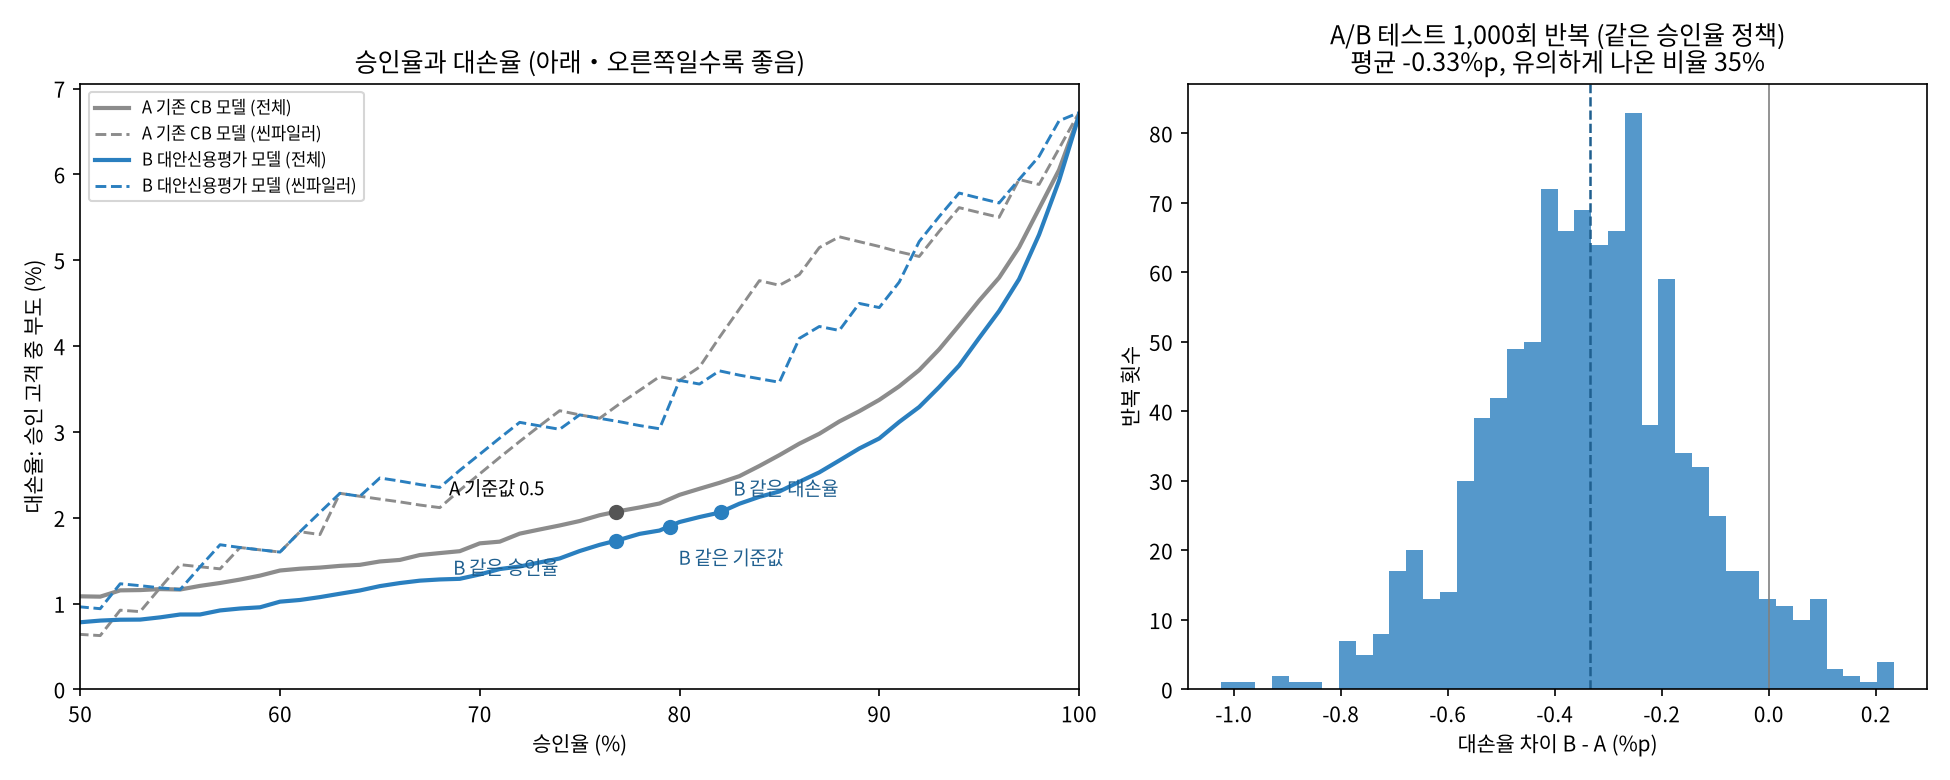
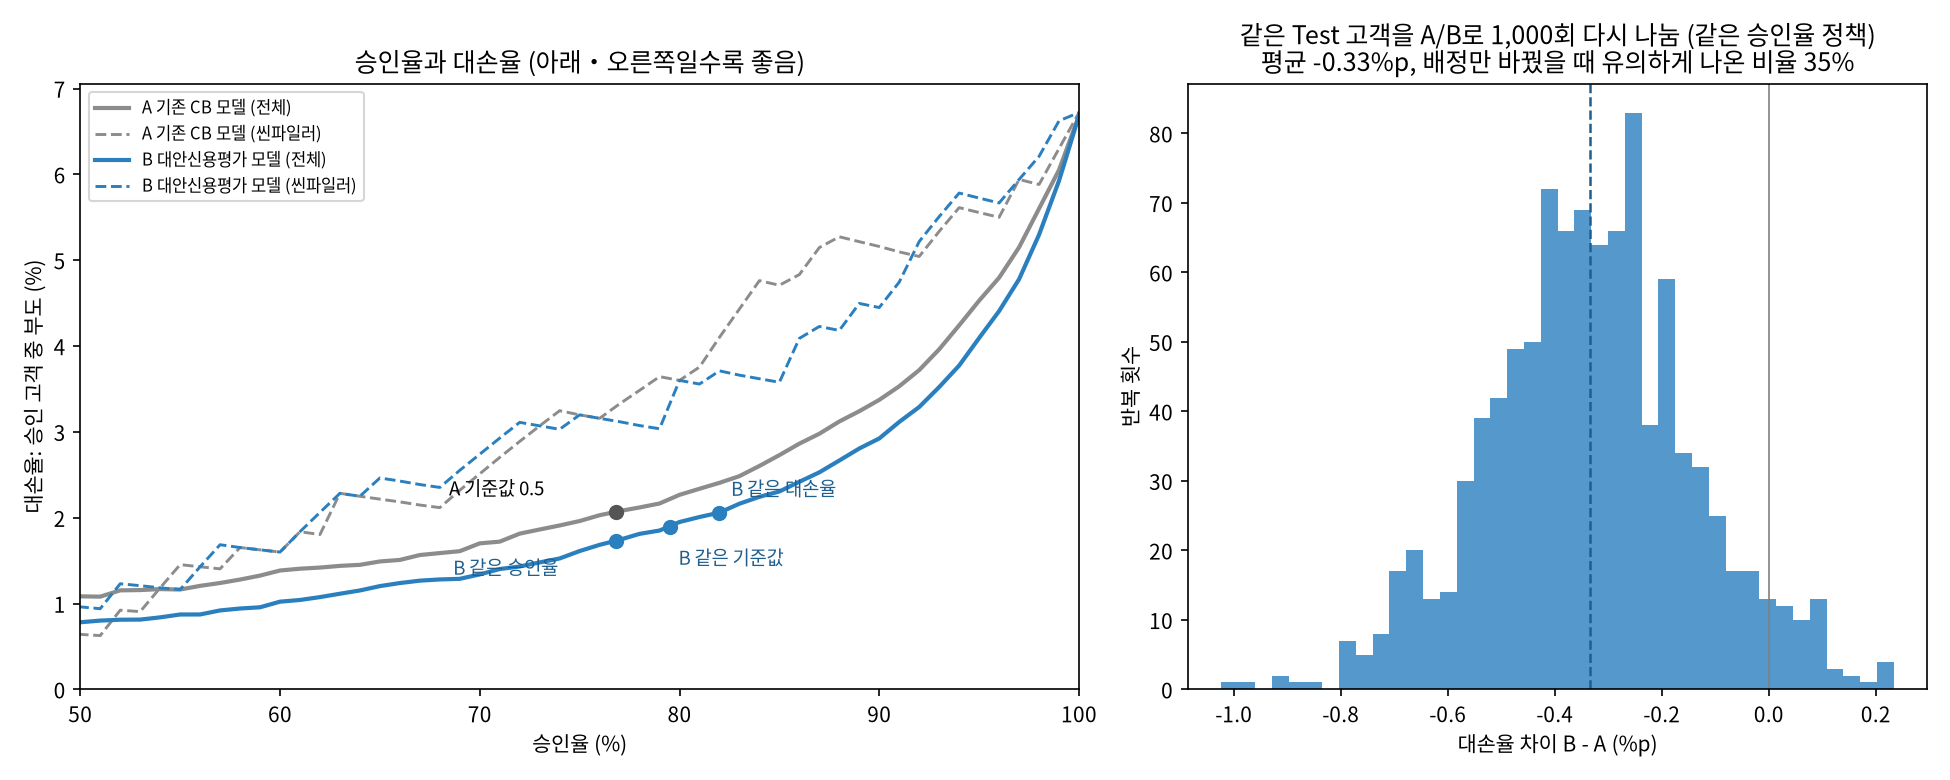
fix: A/B 테스트 리뷰 반영 - 같은 대손율 기준값을 Validation 에서 정함, 0명 가드 (#142)
- policy_comparison(calibration=): '같은 대손율' B 기준값을 Validation 에서 정해 Test 에 적용 (0.547 → 0.545, +1,184명 → +1,159명)
- two_proportion_test: 한쪽 표본 0명이면 testable False, p = 1 + 테스트
- 1,000회 반복의 유의 35% 를 '같은 Test 를 배정만 바꿔 다시 나눴을 때' 로 표현 수정 (로그, 그림, 리포트)
- 리포트 6.8: A 가 B 용 하이퍼파라미터를 써서 B 에 약간 유리하다는 점 기록, 그림 다시 생성

Changed region(s): [[0.6154, 0.0308, 0.9846, 0.0923], [0.3692, 0.6154, 0.4308, 0.6462]]

diff --git a/main_bonus_ab_test.py b/main_bonus_ab_test.py
@@ -3,7 +3,8 @@
 
 A = 기존 CB 모델 (금융 칸 10개만), B = 대안신용평가 모델 (금융 10개 + 대안 5개, 지금 서비스 모델).
   - A 는 B 와 같은 설정(LightGBM is_unbalance)으로 Train 의 금융 칸만 써서 학습한다.
-  - Test 22,500명에서 정책 3개(같은 기준값 / 같은 승인율 / 같은 대손율)를 비교하고,
+  - Test 22,500명에서 정책 3개(같은 기준값 / 같은 승인율 / 같은 대손율)를 비교하고
+    ('같은 대손율' 의 B 기준값은 Validation 에서 정해 Test 에 적용),
     고객을 무작위로 반씩 나누는 A/B 테스트를 1회 + 1,000회 반복한다 (src/statistics/ab_test.py).
   - 결과: outputs/evaluation/ab_test/ab_test.json, ab_test.png
 
@@ -72,8 +73,8 @@ def save_plot(y, p_a, p_b, thin, result, path):
     ax2.axvline(d.mean(), color='#1F5F8F', ls='--', lw=1.2)
     ax2.set_xlabel('대손율 차이 B - A (%p)')
     ax2.set_ylabel('반복 횟수')
-    ax2.set_title(f"A/B 테스트 {rep['n_rep']:,}회 반복 (같은 승인율 정책)\n"
-                  f"평균 {d.mean():+.2f}%p, 유의하게 나온 비율 {rep['share_significant_bad_rate']:.0%}")
+    ax2.set_title(f"같은 Test 고객을 A/B로 {rep['n_rep']:,}회 다시 나눔 (같은 승인율 정책)\n"
+                  f"평균 {d.mean():+.2f}%p, 배정만 바꿨을 때 유의하게 나온 비율 {rep['share_significant_bad_rate']:.0%}")
     fig.tight_layout()
     path.parent.mkdir(parents=True, exist_ok=True)
     fig.savefig(path, dpi=150)
@@ -93,8 +94,10 @@ def main():
 
     splits = Path(args.splits)
     train = pd.read_csv(splits / 'train_processed.csv')
+    val = pd.read_csv(splits / 'val_processed.csv')
     test = pd.read_csv(splits / 'test_processed.csv')
     y_tr, y = train['SeriousDlqin2yrs'].to_numpy(), test['SeriousDlqin2yrs'].to_numpy()
+    y_val = val['SeriousDlqin2yrs'].to_numpy()
     thin = test['is_thin_filer'].to_numpy().astype(bool)
     threshold = float(os.getenv('APPROVAL_THRESHOLD', '0.5'))
 
@@ -105,8 +108,11 @@ def main():
     model_a = clone(model_b).fit(X_a_tr, y_tr)
     p_a = model_a.predict_proba(get_features_by_type(test, 'financial_only'))[:, 1]
     logger.info("Test AUC: A 기존 CB %.3f, B 대안신용평가 %.3f", roc_auc_score(y, p_a), roc_auc_score(y, p_b))
+    # '같은 대손율' 의 B 기준값은 Validation 에서 정한다 (Test 라벨로 고르고 Test 로 평가하면 낙관적)
+    p_a_val = model_a.predict_proba(get_features_by_type(val, 'financial_only'))[:, 1]
+    p_b_val = model_b.predict_proba(val[cols_b])[:, 1]
 
-    policies = ab.policy_comparison(y, p_a, p_b, threshold, segment=thin)
+    policies = ab.policy_comparison(y, p_a, p_b, threshold, segment=thin, calibration=(y_val, p_a_val, p_b_val))
     for key, row in policies['policies'].items():
         a, b = policies['a'], row['b']
         logger.info("%s: 승인율 A %.1f%% → B %.1f%%, 대손율 A %.2f%% → B %.2f%% (상대 %+.1f%%)", POLICY_KR[key],
@@ -115,7 +121,7 @@ def main():
     thr_b = policies['policies']['same_approval_rate']['threshold_b']
     single = ab.ab_split(y, p_a, p_b, threshold, thr_b, seed=args.seed)
     repeated = ab.repeated_ab(y, p_a, p_b, threshold, thr_b, n_rep=args.repeats, seed=args.seed)
-    logger.info("A/B 1회 (같은 승인율): 대손율 차이 %+.2f%%p, p = %.3g / %d회 반복 중 유의 %.0f%%",
+    logger.info("A/B 1회 (같은 승인율): 대손율 차이 %+.2f%%p, p = %.3g / 같은 Test 를 %d회 다시 나눴을 때 유의 %.0f%%",
                 single['bad_rate_test']['diff'] * 100, single['bad_rate_test']['p_value'], args.repeats,
                 repeated['share_significant_bad_rate'] * 100)
     same = policies['policies']['same_approval_rate']
@@ -124,7 +130,8 @@ def main():
                 needed['applicants_total'])
 
     result = {
-        'models': {'a': '기존 CB 모델: 금융 칸 10개, LightGBM is_unbalance (Train 으로 학습)',
+        'models': {'a': '기존 CB 모델: 금융 칸 10개, LightGBM is_unbalance (Train 으로 학습, '
+                        'B 용으로 튜닝한 하이퍼파라미터를 그대로 사용 → 비교가 B 에 약간 유리)',
                    'b': f'대안신용평가 모델: {Path(args.model).name}'},
         'test_auc': {'a': float(roc_auc_score(y, p_a)), 'b': float(roc_auc_score(y, p_b))},
         'bad_rate_definition': '승인 고객 중 부도(SeriousDlqin2yrs = 1) 비율 (금액 정보가 없어 건수 기준)',

diff --git a/src/statistics/ab_test.py b/src/statistics/ab_test.py
@@ -66,7 +66,16 @@ def threshold_for_bad_rate(y, p, target):
 
 
 def two_proportion_test(x1, n1, x2, n2):
-    """두 비율 차이(2 - 1)의 z 검정과 95% 구간."""
+    """
+    두 비율 차이(2 - 1)의 z 검정과 95% 구간.
+    한쪽 표본이 0명이면(예: 한쪽 승인 고객 0명 → 대손율 분모 0) 검정할 수 없어 z = 0, p = 1, testable = False.
+    """
+    if n1 <= 0 or n2 <= 0:
+        p1 = x1 / n1 if n1 > 0 else 0.0
+        p2 = x2 / n2 if n2 > 0 else 0.0
+        d = float(p2 - p1)
+        return {'rate_a': float(p1), 'rate_b': float(p2), 'diff': d, 'ci_low': d, 'ci_high': d,
+                'z': 0.0, 'p_value': 1.0, 'testable': False}
     p1, p2 = x1 / n1, x2 / n2
     pooled = (x1 + x2) / (n1 + n2)
     se0 = np.sqrt(pooled * (1 - pooled) * (1 / n1 + 1 / n2))
@@ -74,18 +83,31 @@ def two_proportion_test(x1, n1, x2, n2):
     se = np.sqrt(p1 * (1 - p1) / n1 + p2 * (1 - p2) / n2)
     return {'rate_a': float(p1), 'rate_b': float(p2), 'diff': float(p2 - p1),
             'ci_low': float(p2 - p1 - 1.96 * se), 'ci_high': float(p2 - p1 + 1.96 * se),
-            'z': float(z), 'p_value': float(2 * stats.norm.sf(abs(z)))}
+            'z': float(z), 'p_value': float(2 * stats.norm.sf(abs(z))), 'testable': True}
 
 
-def policy_comparison(y, p_a, p_b, threshold=0.5, segment=None):
-    """세 정책(같은 기준값 / 같은 승인율 / 같은 대손율)에서 A, B 의 결과와 세그먼트별 결과."""
+def policy_comparison(y, p_a, p_b, threshold=0.5, segment=None, calibration=None):
+    """
+    세 정책(같은 기준값 / 같은 승인율 / 같은 대손율)에서 A, B 의 결과와 세그먼트별 결과.
+
+    calibration = (y_val, p_a_val, p_b_val) 를 주면 '같은 대손율' 의 B 기준값을 Validation 에서 정하고
+    (A 의 Validation 대손율에 맞춘 B 기준값) 그 값을 평가 데이터(Test)에 그대로 적용한다.
+    평가 데이터의 부도 라벨로 기준값을 고르면 같은 라벨로 평가하게 되어 결과가 낙관적이 되기 때문이다.
+    '같은 승인율' 은 점수만 써서 정하므로(라벨 미사용) 평가 데이터에서 맞춘다.
+    """
     a = approval_metrics(y, p_a, threshold)
+    if calibration is not None:
+        y_v, p_a_v, p_b_v = calibration
+        target = approval_metrics(y_v, p_a_v, threshold)['bad_rate']
+        bad_thr, bad_src = threshold_for_bad_rate(y_v, p_b_v, target), 'validation'
+    else:
+        bad_thr, bad_src = threshold_for_bad_rate(y, p_b, a['bad_rate']), 'evaluation'
     thr = {
         'same_threshold': threshold,
         'same_approval_rate': threshold_for_approval_rate(p_b, a['approval_rate']),
-        'same_bad_rate': threshold_for_bad_rate(y, p_b, a['bad_rate']),
+        'same_bad_rate': bad_thr,
     }
-    out = {'threshold_a': threshold, 'a': a, 'policies': {}}
+    out = {'threshold_a': threshold, 'a': a, 'same_bad_rate_threshold_source': bad_src, 'policies': {}}
     for name, t in thr.items():
         b = approval_metrics(y, p_b, t)
         row = {'threshold_b': float(t), 'b': b,
@@ -117,7 +139,11 @@ def ab_split(y, p_a, p_b, thr_a, thr_b, seed=42, share_b=0.5):
 
 
 def repeated_ab(y, p_a, p_b, thr_a, thr_b, n_rep=1000, seed=42):
-    """A/B 나누기를 n_rep 번 반복: 대손율·승인율 차이의 분포와 '유의하게 나온 비율'(검정력)."""
+    """
+    A/B 나누기를 n_rep 번 반복: 대손율·승인율 차이의 분포와 '유의하게 나온 비율'.
+    같은 고객 집단을 배정만 바꿔 다시 나누는 것이므로, 유의 비율은 새 고객을 뽑는 검정력이 아니라
+    '이 표본 안에서 배정만 달라졌을 때 유의하게 나오는 비율' 이다.
+    """
     rng = np.random.default_rng(seed)
     seeds = rng.integers(0, 2**31 - 1, size=n_rep)
     d_bad, d_app, sig_bad = [], [], 0

diff --git a/tests/test_ab_test.py b/tests/test_ab_test.py
@@ -59,6 +59,26 @@ def test_two_proportion_test_known_values():
     assert same['p_value'] == pytest.approx(1.0)
 
 
+def test_two_proportion_test_zero_sample_does_not_crash():
+    """한쪽 승인 고객이 0명이면 ZeroDivisionError 없이 '검정 불가' 로 돌려준다."""
+    t = ab.two_proportion_test(0, 0, 30, 1000)
+    assert t['testable'] is False and t['p_value'] == 1.0 and t['rate_a'] == 0.0
+    t = ab.two_proportion_test(5, 100, 0, 0)
+    assert t['testable'] is False and t['z'] == 0.0
+    assert ab.two_proportion_test(50, 1000, 30, 1000)['testable'] is True
+
+
+def test_same_bad_rate_threshold_from_validation():
+    """calibration 을 주면 '같은 대손율' 기준값은 Validation 에서 정하고, 평가 데이터 라벨로 다시 맞추지 않는다."""
+    y, p_a, p_b = _data(seed=0)
+    y_v, p_a_v, p_b_v = _data(seed=1)
+    r = ab.policy_comparison(y, p_a, p_b, 0.5, calibration=(y_v, p_a_v, p_b_v))
+    assert r['same_bad_rate_threshold_source'] == 'validation'
+    target_v = ab.approval_metrics(y_v, p_a_v, 0.5)['bad_rate']
+    assert r['policies']['same_bad_rate']['threshold_b'] == pytest.approx(ab.threshold_for_bad_rate(y_v, p_b_v, target_v))
+    assert ab.policy_comparison(y, p_a, p_b, 0.5)['same_bad_rate_threshold_source'] == 'evaluation'
+
+
 def test_repeated_ab_and_sample_size():
     y, p_a, p_b = _data(n=8000)
     rep = ab.repeated_ab(y, p_a, p_b, 0.5, 0.5, n_rep=50, seed=1)
